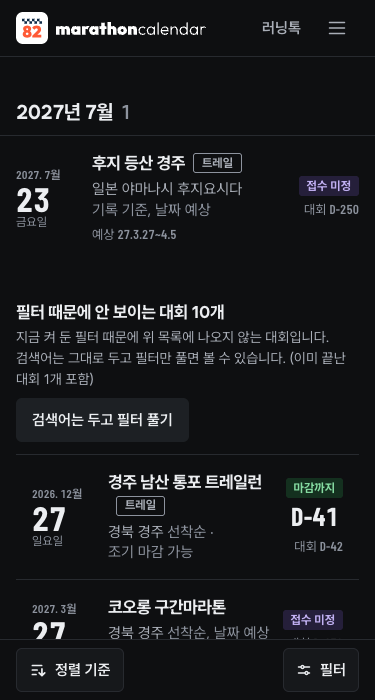
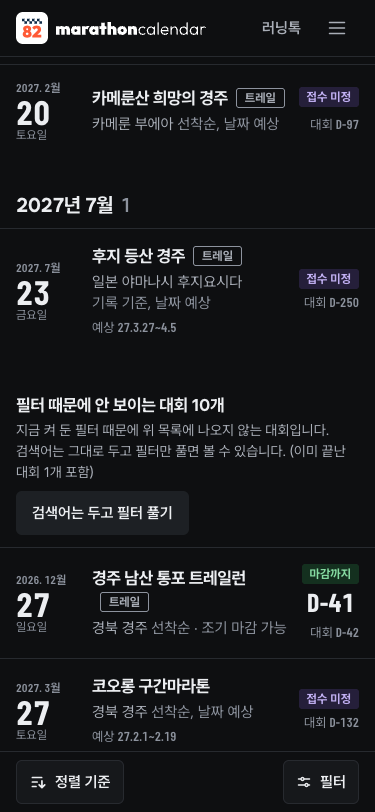
검수(파트 A): 지난 대회 포함 색인을 필터 밖 계산이 켜지고 꺼질 때마다 다시 만들던 것 → 데이터·언어별 한 번만, 결과 몇 개 + 끝난 대회만 더 있을 때 '끝난 대회만 찾았다' 로 잘못 말하던 문구 → '끝난 대회 N개도 찾았습니다', 스크린 리더 '필터 때문에 안 보이는' 수는 다가오는 대회만

diff --git a/src/App.tsx b/src/App.tsx
@@ -32,7 +32,7 @@ import MapSection, { type Scope } from './components/MapSection';
 import { byRaceDate, inDateRange, inScope, matchesAnyStatus, matchesStatus, NO_RANGE, orderRange, picksFromSearch, rangeFromSearch, resolveListPrefs, type DateRange, type ListPicks, type ListSort, type StatusFilter } from './lib/listPrefs';
 import { DISTANCE_BUCKETS, distancesFromSearch, matchesDistances, type DistanceBucket } from './lib/distanceFilter';
 import { matchesPlaces, placeOf } from './lib/places';
-import { buildIndex, searchWithFixes, suggestRaces } from './lib/search';
+import { buildIndex, searchWithFixes, suggestRaces, type SearchDoc } from './lib/search';
 import { popularInfo, relatedChips } from './lib/relatedSearches';
 import { usePopularSearches } from './lib/popularSearches';
 import { emptyKind, FEW_RESULTS, hiddenRaces, type Hidden } from './lib/outsideFilter';
@@ -394,20 +394,17 @@ function Main() {
   const shown = groups.reduce((n, g) => n + g.races.length, 0);
   // 검색 결과 0개일 때 '혹시 이 대회인가요?' (필터와 무관하게 다가오는 대회 중). 결과 수(shown)에는 넣지 않는다 → search_empty 기록 그대로
   // 필터 때문에 안 보이는 대회: 검색어에 맞는데(필터 무관, 지난 대회 포함) 지금 목록에 없는 것. 결과가 0개이거나 몇 개 안 될 때만 찾는다
-  // (지난 대회 색인은 처음 필요할 때 한 번 만든다)
+  // (지난 대회 포함 색인은 처음 필요할 때 한 번만 만든다 — 데이터·언어가 바뀌기 전까지 다시 만들지 않는다)
   const needAll = !!dq.trim() && shown <= FEW_RESULTS && remote !== 'loading';
-  const allWantedRef = useRef(false);
-  if (needAll) allWantedRef.current = true;
-  const allIndex = useMemo(
-    () => (allWantedRef.current ? buildIndex([...upcomingRaces, ...pastRaces], lang) : null),
-    // eslint-disable-next-line react-hooks/exhaustive-deps
-    [needAll, upcomingRaces, pastRaces, lang],
-  );
+  const getAllIndex = useMemo(() => {
+    let built: SearchDoc[] | null = null;
+    return () => (built ??= buildIndex([...upcomingRaces, ...pastRaces], lang));
+  }, [upcomingRaces, pastRaces, lang]);
   const shownSet = useMemo(() => new Set(groups.flatMap((g) => g.races)), [groups]);
   const hidden = useMemo<Hidden>(() => {
-    if (!needAll || !allIndex) return NO_HIDDEN;
-    return hiddenRaces([...(hits ?? []), ...searchWithFixes(allIndex, dq).hits], shownSet, todayKey);
-  }, [needAll, allIndex, hits, dq, shownSet, todayKey]);
+    if (!needAll) return NO_HIDDEN;
+    return hiddenRaces([...(hits ?? []), ...searchWithFixes(getAllIndex(), dq).hits], shownSet, todayKey);
+  }, [needAll, getAllIndex, hits, dq, shownSet, todayKey]);
   // 0개일 때 '혹시 이 대회인가요?' 는 전체에서도 없을 때만 (필터 탓이면 위 안내가 대신한다)
   const suggestions = useMemo(
     () => (shown === 0 && dq.trim() && hidden.total === 0 ? suggestRaces(searchIndex, dq, 3) : []),
@@ -997,7 +994,7 @@ function Main() {
             count={shown}
             suggestions={suggestions.length}
             loading={remote === 'loading'}
-            hidden={hidden.total}
+            hidden={hidden.upcoming.length}
             fixed={outcome?.fixed?.query ?? null}
           />
           <RelatedChips chips={chips} popular={!dq.trim()} onPick={setQ} />

diff --git a/src/components/SearchAssist.tsx b/src/components/SearchAssist.tsx
@@ -28,7 +28,12 @@ export default function SearchAssist({
   const shownRaces = pickHidden(hidden);
   const rest = hidden.total - shownRaces.length;
   const n = fmtCount(hidden.total, lang);
-  const title = canClear ? t('search.hiddenTitle', { n }) : t('search.pastOnlyTitle', { q: query, n });
+  // 결과가 몇 개 있는데(few) 더 찾은 게 끝난 대회뿐이면 '끝난 대회만 찾았다' 가 아니라 '끝난 대회도 있다'
+  const title = canClear
+    ? t('search.hiddenTitle', { n })
+    : variant === 'few'
+      ? t('search.pastAlsoTitle', { n })
+      : t('search.pastOnlyTitle', { q: query, n });
   const clearBtn = canClear ? (
     <button
       type="button"
@@ -48,7 +53,7 @@ export default function SearchAssist({
       {rest > 0 && <p className="pt-3 text-[14px] text-ink-3">{t('search.hiddenMore', { n: fmtCount(rest, lang) })}</p>}
     </>
   );
-  const sub = [canClear ? t(variant === 'few' ? 'search.hiddenHelpFew' : 'search.hiddenHelp') : t('search.pastOnlyHelp'), canClear && hidden.past.length > 0 ? t('search.hiddenPast', { n: fmtCount(hidden.past.length, lang) }) : '']
+  const sub = [canClear ? t(variant === 'few' ? 'search.hiddenHelpFew' : 'search.hiddenHelp') : variant === 'few' ? '' : t('search.pastOnlyHelp'), canClear && hidden.past.length > 0 ? t('search.hiddenPast', { n: fmtCount(hidden.past.length, lang) }) : '']
     .filter(Boolean)
     .join(' ');
 

diff --git a/src/i18n/ko.ts b/src/i18n/ko.ts
@@ -135,6 +135,7 @@ export const ko = {
   'search.pastOnlyTitle': '‘{q}’ 는 이미 끝난 대회 {n}개만 찾았습니다',
   'search.hiddenHelp': '지금 켜 둔 필터에서는 결과가 없습니다. 검색어는 그대로 두고 필터만 풀면 볼 수 있습니다.',
   'search.hiddenHelpFew': '지금 켜 둔 필터 때문에 위 목록에 나오지 않는 대회입니다. 검색어는 그대로 두고 필터만 풀면 볼 수 있습니다.',
+  'search.pastAlsoTitle': '이미 끝난 대회 {n}개도 찾았습니다',
   'search.pastOnlyHelp': '다가오는 대회에는 없고, 끝난 대회 기록만 있습니다.',
   'search.hiddenPast': '(이미 끝난 대회 {n}개 포함)',
   'search.hiddenList': '필터를 풀면 볼 수 있는 대회',

diff --git a/src/i18n/en.ts b/src/i18n/en.ts
@@ -140,6 +140,8 @@ export const en: Record<Key, string> & Partial<Record<`${Key}_one`, string>> = {
   'search.pastOnlyTitle_one': 'Only 1 past race matches “{q}”',
   'search.hiddenHelp': 'Nothing matches with the filters you have on. Clear the filters and keep your search to see them.',
   'search.hiddenHelpFew': 'These match your search but are left out by the filters you have on. Clear the filters and keep your search to see them.',
+  'search.pastAlsoTitle': '{n} past races also match',
+  'search.pastAlsoTitle_one': '1 past race also matches',
   'search.pastOnlyHelp': 'No upcoming race matches, only races that have already taken place.',
   'search.hiddenPast': '({n} past races included)',
   'search.hiddenPast_one': '(1 past race included)',

diff --git a/search-report.md b/search-report.md
@@ -66,6 +66,7 @@
 | 빈 검색창 인기 검색어 | `evidence/search/a4-popular-empty-375.png` | `evidence/search/a4-popular-empty-1280.png` |
 | 'rhvm' → '고프' 로 찾은 결과 | `evidence/search/a5-rhvm-375.png` | `evidence/search/a5-rhvm-1280.png` |
 | 'rhrnfu' → '고구려' | `evidence/search/a6-rhrnfu-375.png` | — |
+| '통영' (결과 1개 + 더 찾은 건 끝난 대회뿐) → "이미 끝난 대회 2개도 찾았습니다", 버튼 없음 | `evidence/search/a7-few-past-tongyeong-375.png` | `evidence/search/a7-few-past-tongyeong-1280.png` |
 
 ## 동작 정리
 
